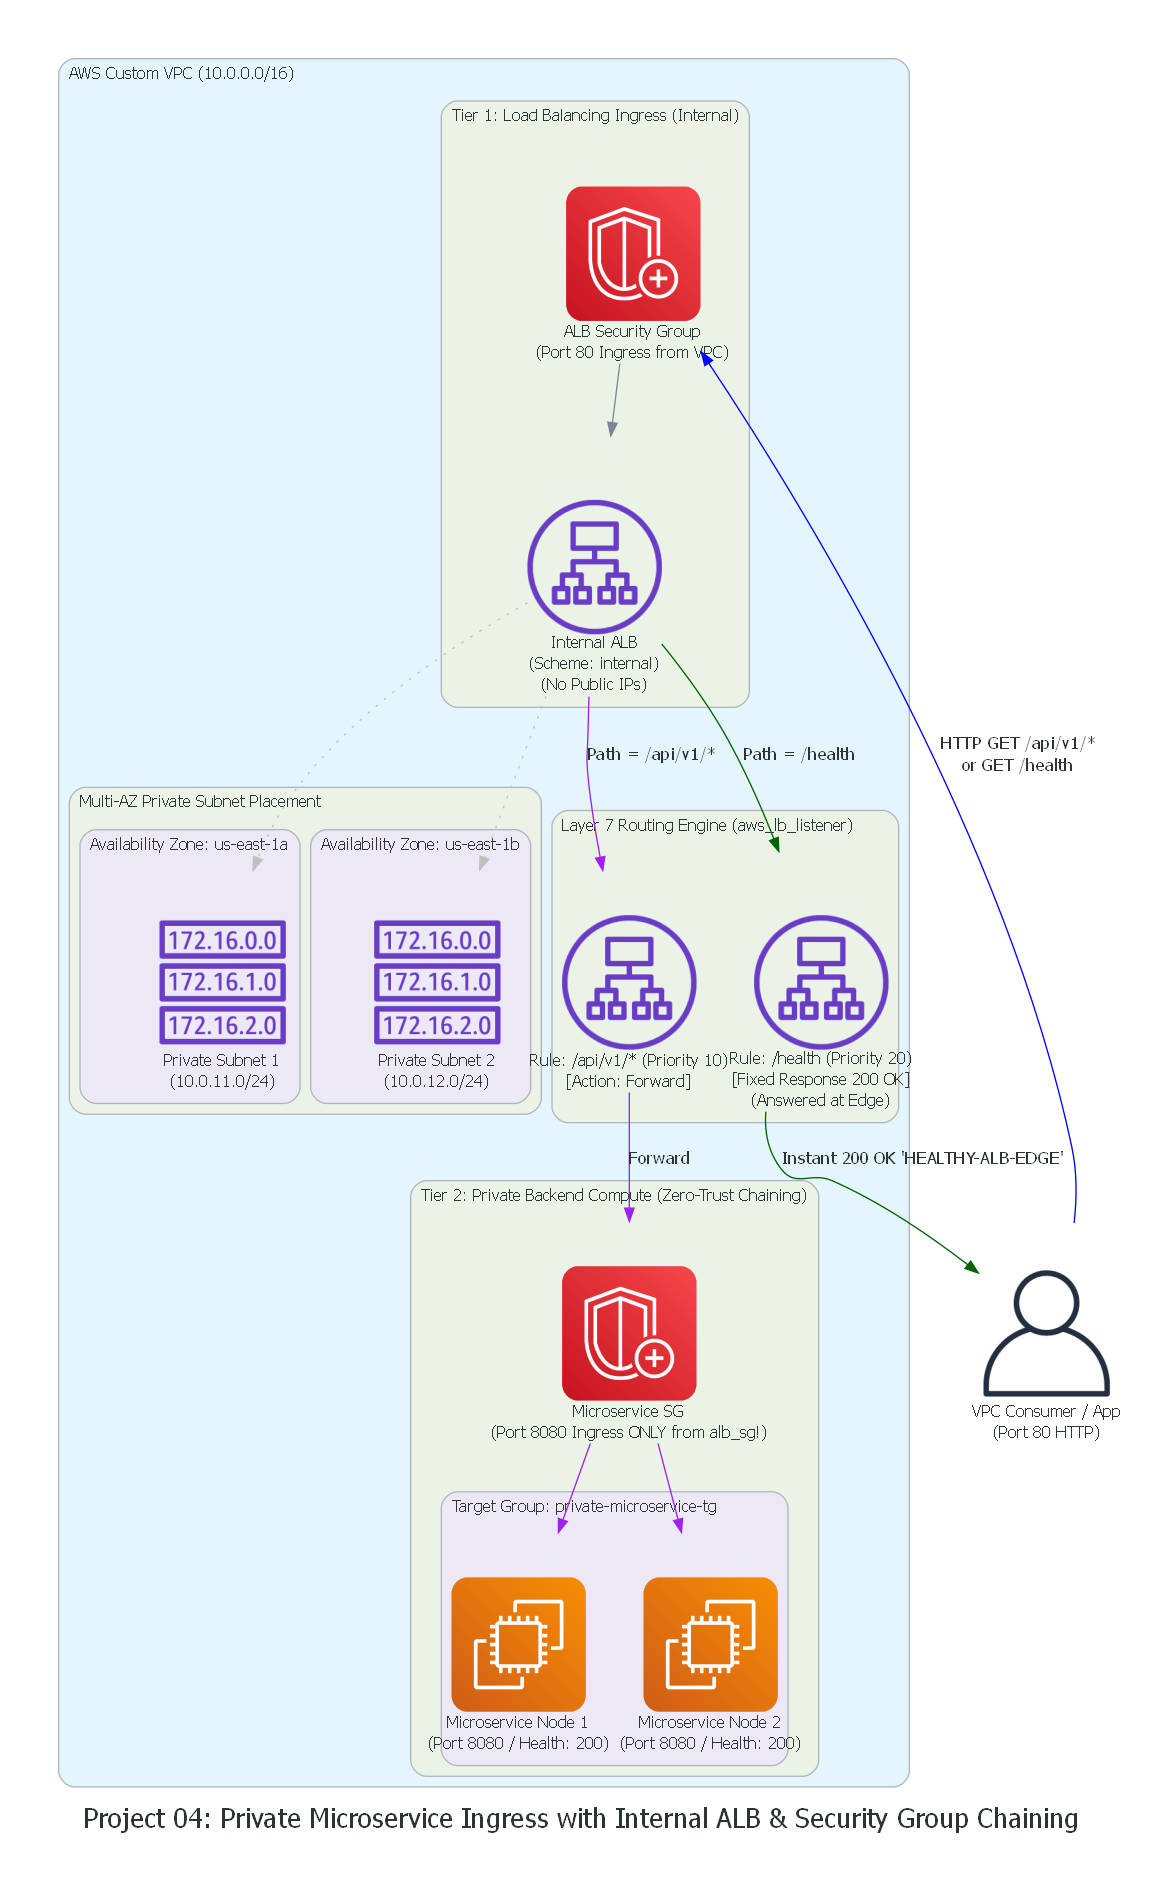
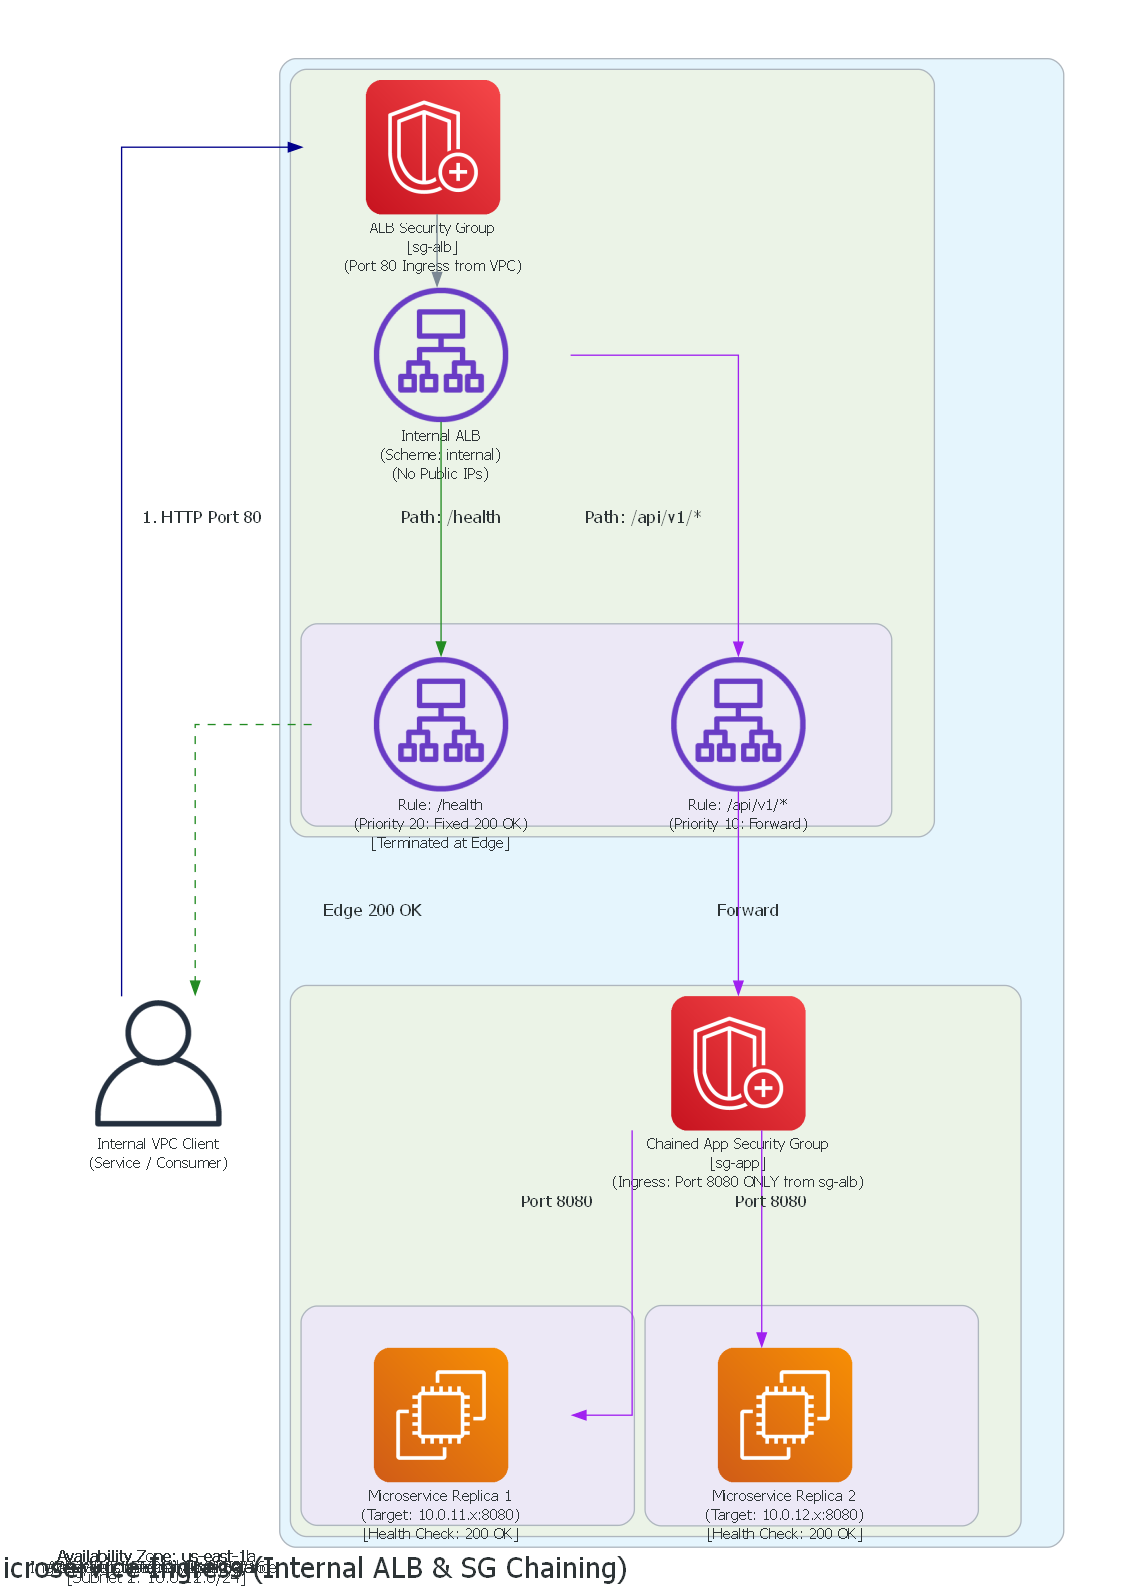
style(project-04): redesign architecture diagram to clean horizontal enterprise layout

diff --git a/04-private-microservice-ingress-alb/generate_diagram.py b/04-private-microservice-ingress-alb/generate_diagram.py
@@ -2,74 +2,67 @@ import os
 os.environ["PATH"] += r";C:\Program Files\Graphviz\bin"
 
 from diagrams import Cluster, Diagram, Edge
-from diagrams.aws.network import VPC, ALB, RouteTable
+from diagrams.aws.network import ALB, ElbApplicationLoadBalancer
 from diagrams.aws.compute import EC2
 from diagrams.aws.security import Shield
 from diagrams.onprem.client import User
 
 graph_attr = {
-    "fontsize": "20",
+    "fontsize": "22",
     "bgcolor": "white",
     "pad": "0.5",
-    "splines": "spline",
+    "splines": "ortho",
 }
 
 node_attr = {
-    "fontsize": "12",
-}
-
-edge_attr = {
     "fontsize": "11",
 }
 
+edge_attr = {
+    "fontsize": "10",
+}
+
 with Diagram(
-    "Project 04: Private Microservice Ingress with Internal ALB & Security Group Chaining",
+    "Project 04: Production Microservice Ingress (Internal ALB & SG Chaining)",
     show=False,
     filename="architecture_diagram",
-    direction="TB",
+    direction="LR",
     graph_attr=graph_attr,
     node_attr=node_attr,
     edge_attr=edge_attr,
 ):
-    internal_client = User("VPC Consumer / App\n(Port 80 HTTP)")
+    client = User("Internal VPC Client\n(Service / Consumer)")
 
-    with Cluster("AWS Custom VPC (10.0.0.0/16)"):
+    with Cluster("AWS Custom VPC: 10.0.0.0/16"):
 
-        with Cluster("Tier 1: Load Balancing Ingress (Internal)"):
-            alb_sg = Shield("ALB Security Group\n(Port 80 Ingress from VPC)")
-            alb = ALB("Internal ALB\n(Scheme: internal)\n(No Public IPs)")
+        with Cluster("Ingress Tier: Internal Load Balancer"):
+            alb_sg = Shield("ALB Security Group\n[sg-alb]\n(Port 80 Ingress from VPC)")
+            alb = ElbApplicationLoadBalancer("Internal ALB\n(Scheme: internal)\n(No Public IPs)")
 
-        with Cluster("Multi-AZ Private Subnet Placement"):
-            with Cluster("Availability Zone: us-east-1a"):
-                sn_1 = RouteTable("Private Subnet 1\n(10.0.11.0/24)")
-            with Cluster("Availability Zone: us-east-1b"):
-                sn_2 = RouteTable("Private Subnet 2\n(10.0.12.0/24)")
+            with Cluster("Layer 7 Listener (Port 80)"):
+                rule_api = ALB("Rule: /api/v1/*\n(Priority 10: Forward)")
+                rule_health = ALB("Rule: /health\n(Priority 20: Fixed 200 OK)\n[Terminated at Edge]")
 
-        with Cluster("Layer 7 Routing Engine (aws_lb_listener)"):
-            rule_health = ALB("Rule: /health (Priority 20)\n[Fixed Response 200 OK]\n(Answered at Edge)")
-            rule_api = ALB("Rule: /api/v1/* (Priority 10)\n[Action: Forward]")
+        with Cluster("Zero-Trust Security Perimeter"):
+            app_sg = Shield("Chained App Security Group\n[sg-app]\n(Ingress: Port 8080 ONLY from sg-alb)")
 
-        with Cluster("Tier 2: Private Backend Compute (Zero-Trust Chaining)"):
-            app_sg = Shield("Microservice SG\n(Port 8080 Ingress ONLY from alb_sg!)")
-            with Cluster("Target Group: private-microservice-tg"):
-                pod_1 = EC2("Microservice Node 1\n(Port 8080 / Health: 200)")
-                pod_2 = EC2("Microservice Node 2\n(Port 8080 / Health: 200)")
+            with Cluster("Availability Zone: us-east-1a\n[Subnet 1: 10.0.11.0/24]"):
+                backend_az1 = EC2("Microservice Replica 1\n(Target: 10.0.11.x:8080)\n[Health Check: 200 OK]")
 
-    # Client to ALB
-    internal_client >> Edge(color="blue", label="HTTP GET /api/v1/*\nor GET /health") >> alb_sg
+            with Cluster("Availability Zone: us-east-1b\n[Subnet 2: 10.0.12.0/24]"):
+                backend_az2 = EC2("Microservice Replica 2\n(Target: 10.0.12.x:8080)\n[Health Check: 200 OK]")
+
+    # Traffic Flow
+    client >> Edge(color="darkblue", label="1. HTTP Port 80") >> alb_sg
     alb_sg >> alb
 
-    # ALB deployed across multi-AZ subnets
-    alb >> Edge(color="gray", style="dotted") >> sn_1
-    alb >> Edge(color="gray", style="dotted") >> sn_2
+    # Layer 7 Inspection
+    alb >> Edge(color="forestgreen", label="Path: /health") >> rule_health
+    rule_health >> Edge(color="forestgreen", style="dashed", label="Edge 200 OK") >> client
 
-    # Layer 7 routing logic
-    alb >> Edge(color="darkgreen", label="Path = /health") >> rule_health
-    rule_health >> Edge(color="darkgreen", label="Instant 200 OK 'HEALTHY-ALB-EDGE'") >> internal_client
-
-    alb >> Edge(color="purple", label="Path = /api/v1/*") >> rule_api
+    alb >> Edge(color="purple", label="Path: /api/v1/*") >> rule_api
     rule_api >> Edge(color="purple", label="Forward") >> app_sg
 
-    # Security Group Chained ingress to backend pods
-    app_sg >> Edge(color="purple") >> pod_1
-    app_sg >> Edge(color="purple") >> pod_2
+    # Chained SG dispatch to Multi-AZ replicas
+    app_sg >> Edge(color="purple", label="Port 8080") >> backend_az1
+    app_sg >> Edge(color="purple", label="Port 8080") >> backend_az2
